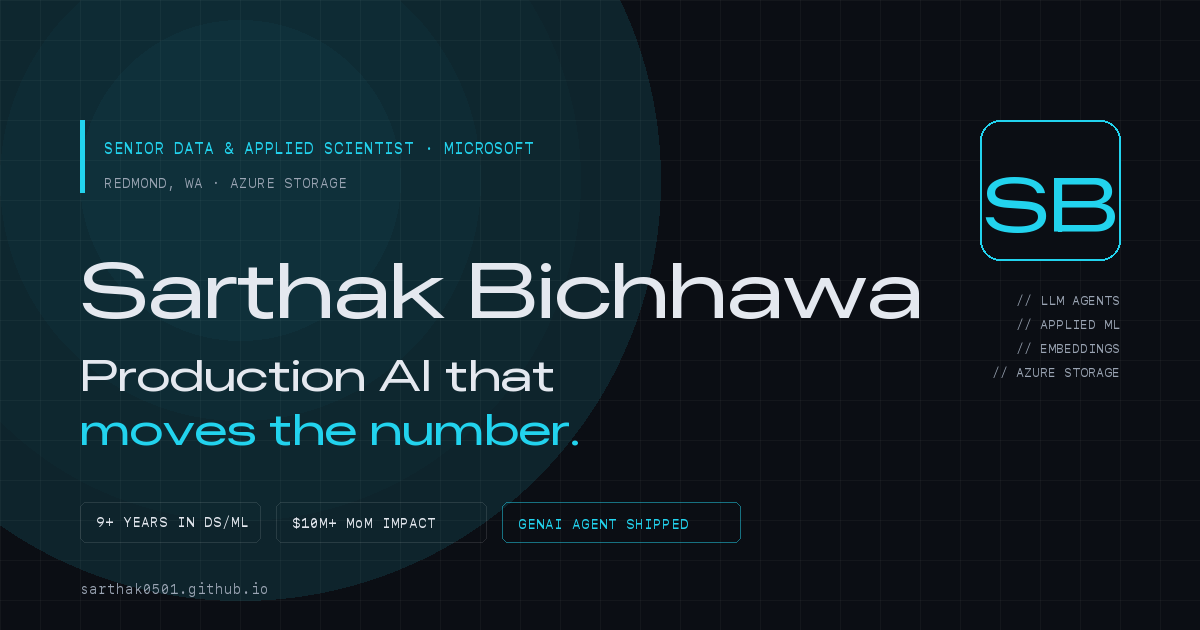
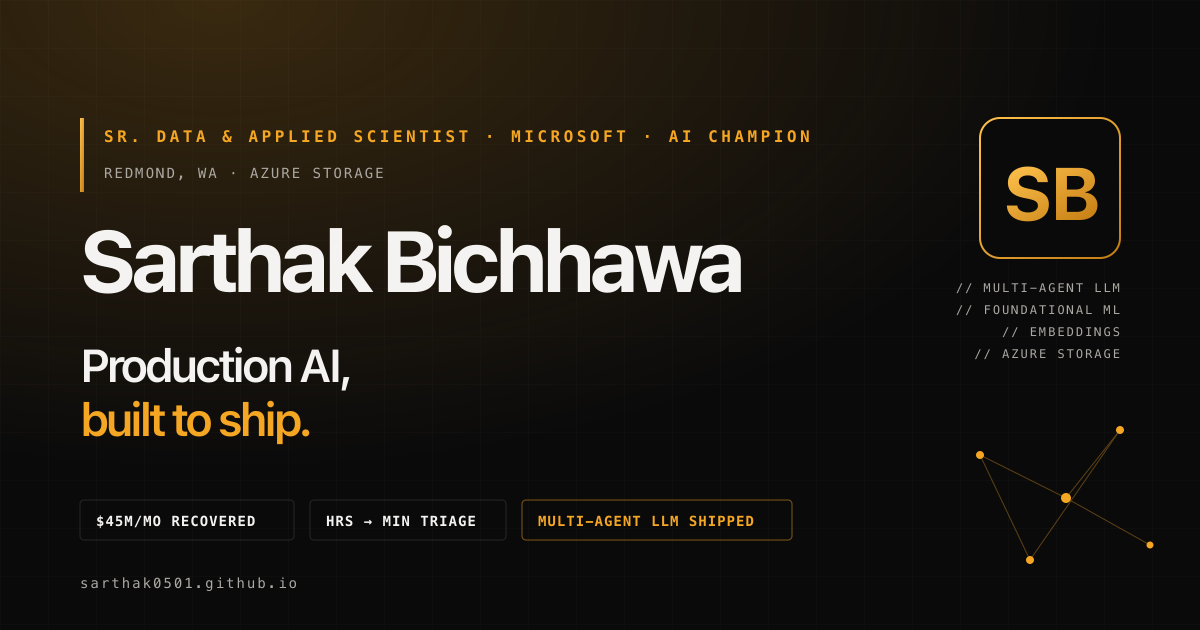
Signature AI-native brand layer: live embedding field, agent console, decode metrics
- Hero canvas "embedding field": drifting amber nodes that link and reach
  toward the cursor (Account2Vec, visualized); fades out past the hero,
  render loop pauses while hidden
- Hero agent console: types a planner -> executor -> report loop
- Decode/scramble reveal on impact + case metrics
- Cursor-tracked radial spotlight glow on all cards
- All vanilla JS, zero deps, gated on prefers-reduced-motion
- Rebrand og-image.svg to amber + rasterize og-image.png (1200x630)

diff --git a/index.html b/index.html
@@ -1007,11 +1007,102 @@
     .diagram .flow-line.accent { stroke: var(--accent); }
     .diagram .wrap-rect { fill: none; stroke: var(--accent); stroke-width: 1; stroke-dasharray: 4 4; opacity: 0.4; }
     .diagram .wrap-label { font-family: var(--font-mono); font-size: 9px; font-weight: 600; fill: var(--accent); letter-spacing: 1.5px; }
+
+    /* ============================================================
+       SIGNATURE — embedding field · agent console · spotlight
+       The hero literally renders what Sarthak builds:
+       a living vector space + an autonomous agent at work.
+       ============================================================ */
+    #field {
+      position: fixed; inset: 0;
+      z-index: 0;
+      pointer-events: none;
+      -webkit-mask-image: radial-gradient(ellipse 130% 78% at 50% -2%, #000 0%, #000 28%, transparent 80%);
+              mask-image: radial-gradient(ellipse 130% 78% at 50% -2%, #000 0%, #000 28%, transparent 80%);
+      transition: opacity 0.25s linear;
+    }
+
+    /* agent console */
+    .hero-console {
+      max-width: 580px;
+      margin: 0 0 2.25rem;
+      background: linear-gradient(180deg, rgba(22,22,25,0.92), rgba(15,15,17,0.92));
+      border: 1px solid var(--border);
+      border-radius: var(--radius);
+      overflow: hidden;
+      box-shadow: 0 28px 70px -34px rgba(0,0,0,0.85), inset 0 1px 0 rgba(255,255,255,0.03);
+    }
+    .hc-bar {
+      display: flex; align-items: center; gap: 0.45rem;
+      padding: 0.6rem 0.9rem;
+      border-bottom: 1px solid var(--border);
+      background: rgba(255,255,255,0.018);
+    }
+    .hc-bar .d { width: 10px; height: 10px; border-radius: 50%; background: var(--border-strong); }
+    .hc-bar .d:nth-child(3) { background: var(--accent-dim); }
+    .hc-title {
+      margin-left: auto;
+      font-family: var(--font-mono); font-size: 0.68rem; font-weight: 600;
+      letter-spacing: 1.4px; text-transform: uppercase; color: var(--text-3);
+      display: inline-flex; align-items: center; gap: 0.5rem;
+    }
+    .hc-title::after {
+      content: ''; width: 7px; height: 7px; border-radius: 50%;
+      background: #34d399; box-shadow: 0 0 0 3px rgba(52,211,153,0.15);
+      animation: pulse 2.4s ease-in-out infinite;
+    }
+    .hc-body {
+      font-family: var(--font-mono); font-size: 0.83rem;
+      color: var(--text-2); line-height: 1.65;
+      padding: 0.95rem 1rem;
+      min-height: 3em;
+      white-space: pre-wrap; word-break: break-word;
+    }
+    .hc-body .pr { color: var(--accent); }
+    .hc-body .ok { color: #34d399; }
+    .hc-caret {
+      display: inline-block; width: 8px; height: 1.05em;
+      background: var(--accent); margin-left: 3px; vertical-align: text-bottom;
+      animation: caret 1s steps(1) infinite;
+    }
+    @keyframes caret { 0%, 50% { opacity: 1; } 50.01%, 100% { opacity: 0; } }
+
+    /* cursor spotlight glow on cards */
+    .sys-card, .skill-card, .xp, .write-row, .recognition, .case-compact, .about-side {
+      --mx: 50%; --my: -40%;
+    }
+    .skill-card, .xp, .write-row, .recognition, .case-compact, .about-side {
+      position: relative; overflow: hidden;
+    }
+    .sys-card::before, .skill-card::before, .xp::before, .write-row::before,
+    .recognition::before, .case-compact::before, .about-side::before {
+      content: '';
+      position: absolute; inset: 0;
+      border-radius: inherit;
+      background: radial-gradient(circle 260px at var(--mx) var(--my), var(--accent-glow), transparent 60%);
+      opacity: 0;
+      transition: opacity 0.35s var(--ease);
+      pointer-events: none;
+      z-index: 0;
+    }
+    .sys-card:hover::before, .skill-card:hover::before, .xp:hover::before,
+    .write-row:hover::before, .recognition:hover::before,
+    .case-compact:hover::before, .about-side:hover::before { opacity: 1; }
+    .sys-card > *, .skill-card > *, .xp > *, .write-row > *,
+    .recognition > *, .case-compact > *, .about-side > * { position: relative; z-index: 1; }
+
+    /* metrics mid-decode read as crisp mono numerals */
+    .impact-val.decoding, .cms-item .v.decoding { color: var(--accent-bright); }
+
+    @media (max-width: 560px) { .hero-console { max-width: 100%; } }
   </style>
 </head>
 <body>
 
 <a href="#systems" class="skip-link">Skip to content</a>
+
+<!-- signature: living embedding field (Account2Vec, made visible) -->
+<canvas id="field" aria-hidden="true"></canvas>
 <div class="progress" id="progress"></div>
 
 <!-- ============================================================
@@ -1084,6 +1175,14 @@
             <a href="resumes/MLManager_TechnicalLead.pdf" target="_blank" role="menuitem">ML Manager / Technical Lead</a>
           </div>
         </div>
+      </div>
+
+      <div class="hero-console reveal" aria-hidden="true">
+        <div class="hc-bar">
+          <span class="d"></span><span class="d"></span><span class="d"></span>
+          <span class="hc-title">incident-agent · live</span>
+        </div>
+        <div class="hc-body"><span id="hcLine"></span><span class="hc-caret"></span></div>
       </div>
 
       <div class="hero-impact">
@@ -2068,6 +2167,165 @@
     });
   }, { rootMargin: '0px 0px -60px 0px', threshold: 0.1 });
   document.querySelectorAll('.reveal').forEach(el => revealObs.observe(el));
+
+  // ================================================================
+  // SIGNATURE INTERACTIONS — embedding field · agent console ·
+  // decode-on-reveal metrics · cursor spotlight
+  // ================================================================
+  const reduceMotion = window.matchMedia('(prefers-reduced-motion: reduce)').matches;
+
+  // 1) Living embedding field — drifting vector space that reaches
+  //    toward the cursor. This is Account2Vec, rendered.
+  (function field() {
+    const c = document.getElementById('field');
+    if (!c) return;
+    const ctx = c.getContext('2d');
+    let w, h, dpr, nodes = [], raf = null;
+    const mouse = { x: -9999, y: -9999 };
+
+    function size() {
+      dpr = Math.min(window.devicePixelRatio || 1, 1.5);
+      w = window.innerWidth; h = window.innerHeight;
+      c.width = w * dpr; c.height = h * dpr;
+      c.style.width = w + 'px'; c.style.height = h + 'px';
+      ctx.setTransform(dpr, 0, 0, dpr, 0, 0);
+      const target = Math.min(78, Math.round((w * h) / 17000));
+      nodes = [];
+      for (let i = 0; i < target; i++) {
+        nodes.push({
+          x: Math.random() * w,
+          y: Math.random() * h * 0.92,
+          vx: (Math.random() - 0.5) * 0.22,
+          vy: (Math.random() - 0.5) * 0.22
+        });
+      }
+    }
+
+    function draw() {
+      ctx.clearRect(0, 0, w, h);
+      const linkDist = 132, mouseDist = 175;
+      for (let i = 0; i < nodes.length; i++) {
+        const a = nodes[i];
+        a.x += a.vx; a.y += a.vy;
+        if (a.x < 0 || a.x > w) a.vx *= -1;
+        if (a.y < 0 || a.y > h) a.vy *= -1;
+        for (let j = i + 1; j < nodes.length; j++) {
+          const b = nodes[j];
+          const dx = a.x - b.x, dy = a.y - b.y, d = Math.hypot(dx, dy);
+          if (d < linkDist) {
+            ctx.strokeStyle = 'rgba(245,166,35,' + (1 - d / linkDist) * 0.15 + ')';
+            ctx.lineWidth = 1;
+            ctx.beginPath(); ctx.moveTo(a.x, a.y); ctx.lineTo(b.x, b.y); ctx.stroke();
+          }
+        }
+        const md = Math.hypot(a.x - mouse.x, a.y - mouse.y);
+        const near = md < mouseDist;
+        if (near) {
+          ctx.strokeStyle = 'rgba(255,194,77,' + (1 - md / mouseDist) * 0.5 + ')';
+          ctx.lineWidth = 1;
+          ctx.beginPath(); ctx.moveTo(a.x, a.y); ctx.lineTo(mouse.x, mouse.y); ctx.stroke();
+        }
+        ctx.fillStyle = near ? 'rgba(255,194,77,0.9)' : 'rgba(245,166,35,0.5)';
+        ctx.beginPath(); ctx.arc(a.x, a.y, near ? 2.4 : 1.5, 0, Math.PI * 2); ctx.fill();
+      }
+    }
+
+    // field is a hero-only brand moment — fade it out past the hero
+    // so it never sits behind body copy below, and pause its render.
+    let hidden = false;
+    function onFade() {
+      const fadeEnd = (window.innerHeight || 800) * 0.9;
+      const op = Math.max(0, 1 - window.scrollY / fadeEnd);
+      c.style.opacity = op;
+      hidden = op <= 0.01;
+    }
+
+    function loop() {
+      raf = requestAnimationFrame(loop);
+      if (hidden) return;
+      draw();
+    }
+
+    size(); onFade(); draw();
+    if (!reduceMotion) {
+      window.addEventListener('scroll', onFade, { passive: true });
+      loop();
+      window.addEventListener('pointermove', e => { mouse.x = e.clientX; mouse.y = e.clientY; }, { passive: true });
+      window.addEventListener('pointerleave', () => { mouse.x = -9999; mouse.y = -9999; });
+      document.addEventListener('visibilitychange', () => {
+        if (document.hidden) { if (raf) cancelAnimationFrame(raf); raf = null; }
+        else if (!raf) loop();
+      });
+    }
+    let rt;
+    window.addEventListener('resize', () => { clearTimeout(rt); rt = setTimeout(size, 200); }, { passive: true });
+  })();
+
+  // 2) Agent console — a planner/executor loop, narrated live.
+  (function console_() {
+    const line = document.getElementById('hcLine');
+    if (!line) return;
+    const seq = [
+      { c: 'pr', s: '▸', t: ' planner   routing incident SEV2-4471 · 10 MCP tools' },
+      { c: 'pr', s: '▸', t: ' executor  query ADX · scan tickets · check jobs' },
+      { c: 'pr', s: '▸', t: ' compacting context   198K → 24K tokens' },
+      { c: 'ok', s: '✓', t: ' report ready   confidence 0.94   ·   hrs → min' }
+    ];
+    const render = (item, n) =>
+      '<span class="' + item.c + '">' + item.s + '</span>' +
+      item.t.slice(0, n).replace(/</g, '&lt;');
+    if (reduceMotion) { const last = seq[seq.length - 1]; line.innerHTML = render(last, last.t.length); return; }
+    let si = 0;
+    function type() {
+      const item = seq[si];
+      let i = 0;
+      (function tick() {
+        line.innerHTML = render(item, i);
+        if (i < item.t.length) { i++; setTimeout(tick, 26); }
+        else setTimeout(() => { si = (si + 1) % seq.length; type(); }, 1600);
+      })();
+    }
+    type();
+  })();
+
+  // 3) Decode-on-reveal — metrics resolve out of noise.
+  (function decode() {
+    if (reduceMotion) return;
+    const glyphs = '01<>/{}$%#*+→·';
+    const run = (el) => {
+      const finalHTML = el.innerHTML;
+      const tmp = document.createElement('div'); tmp.innerHTML = finalHTML;
+      const text = tmp.textContent;
+      el.classList.add('decoding');
+      let frame = 0; const total = 13;
+      const id = setInterval(() => {
+        frame++;
+        const cut = text.length * (frame / total);
+        let out = '';
+        for (let i = 0; i < text.length; i++) {
+          out += (i < cut || text[i] === ' ') ? text[i] : glyphs[Math.floor(Math.random() * glyphs.length)];
+        }
+        el.textContent = out;
+        if (frame >= total) { clearInterval(id); el.innerHTML = finalHTML; el.classList.remove('decoding'); }
+      }, 34);
+    };
+    const obs = new IntersectionObserver((ents) => {
+      ents.forEach(e => { if (e.isIntersecting) { run(e.target); obs.unobserve(e.target); } });
+    }, { threshold: 0.6 });
+    document.querySelectorAll('.impact-val, .cms-item .v').forEach(el => obs.observe(el));
+  })();
+
+  // 4) Cursor spotlight — radial glow tracks the pointer per card.
+  (function spotlight() {
+    const sel = '.sys-card, .skill-card, .xp, .write-row, .recognition, .case-compact, .about-side';
+    document.querySelectorAll(sel).forEach(card => {
+      card.addEventListener('pointermove', e => {
+        const r = card.getBoundingClientRect();
+        card.style.setProperty('--mx', (e.clientX - r.left) + 'px');
+        card.style.setProperty('--my', (e.clientY - r.top) + 'px');
+      }, { passive: true });
+    });
+  })();
 </script>
 
 </body>
